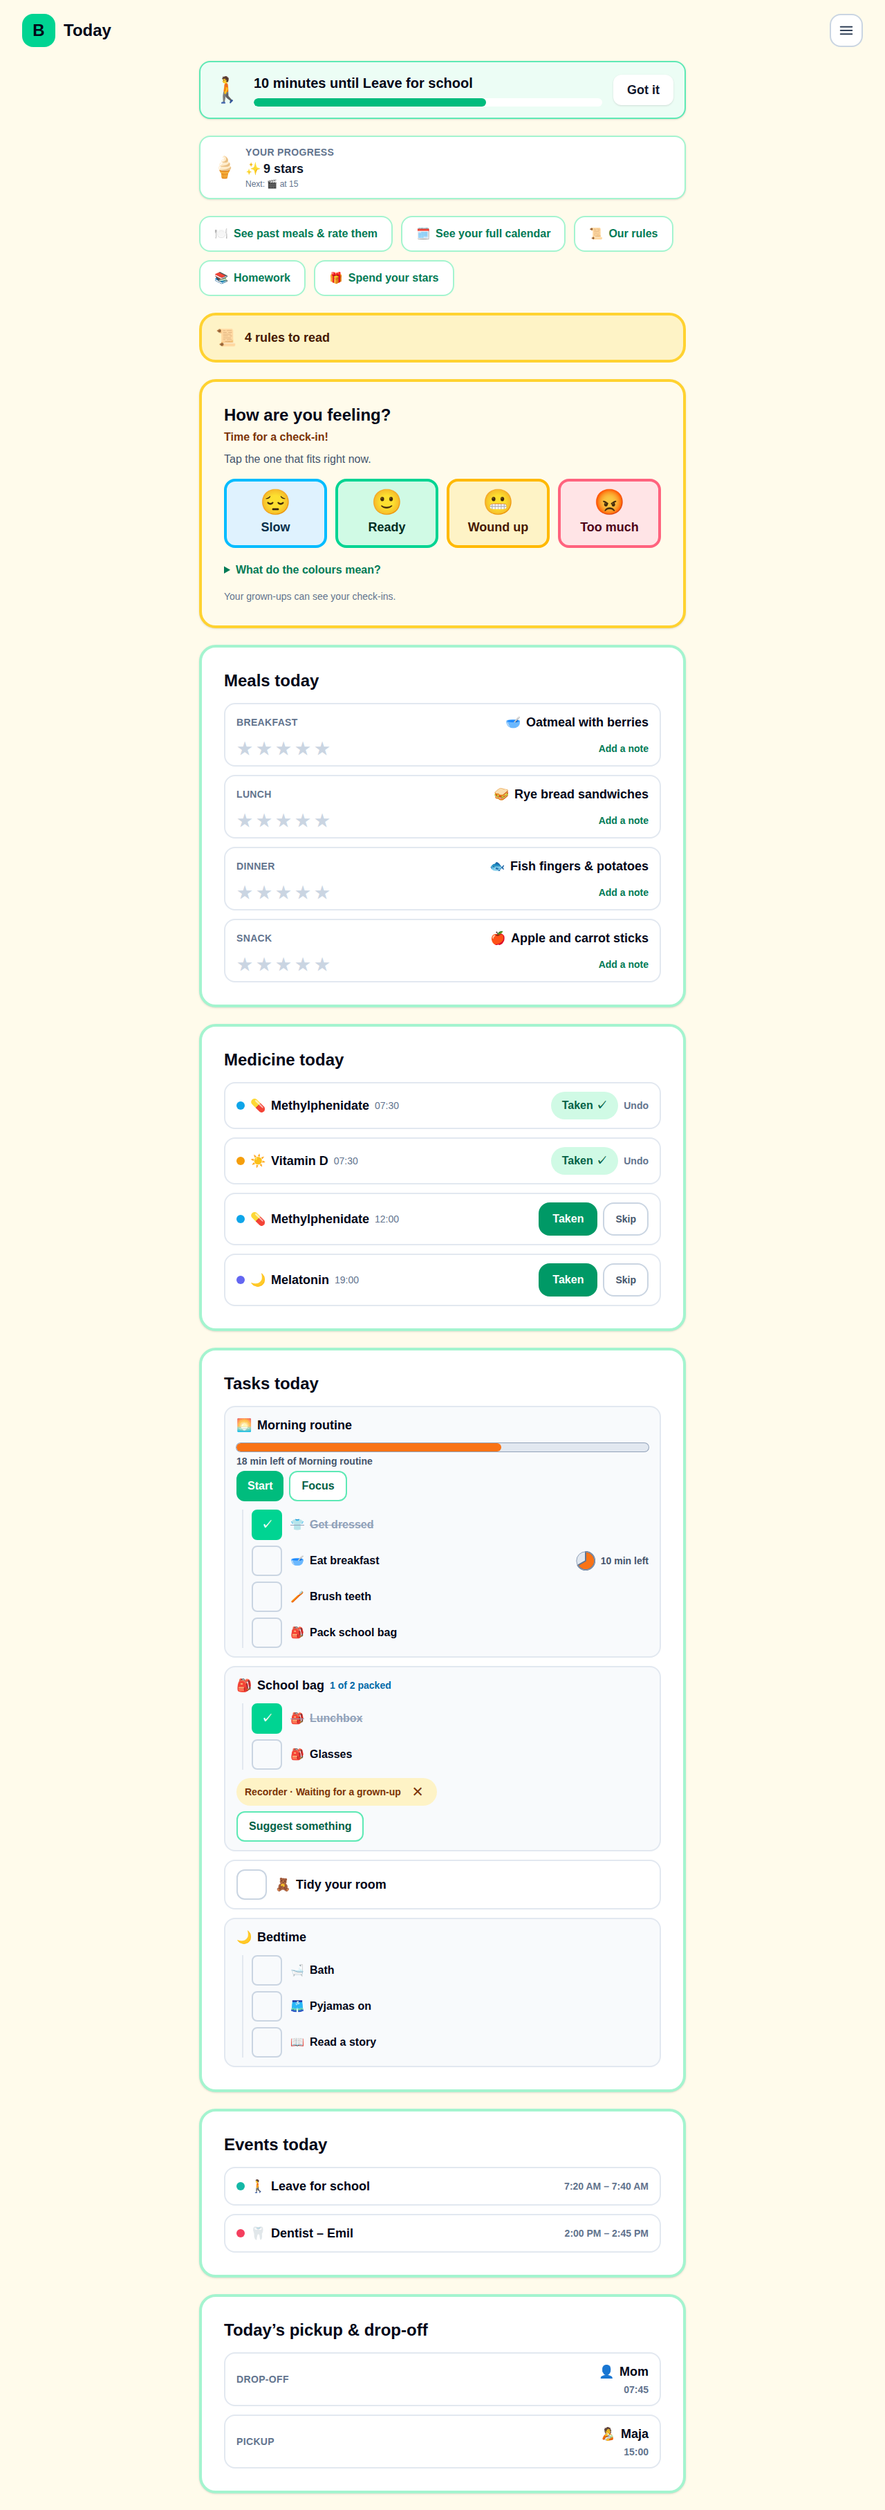
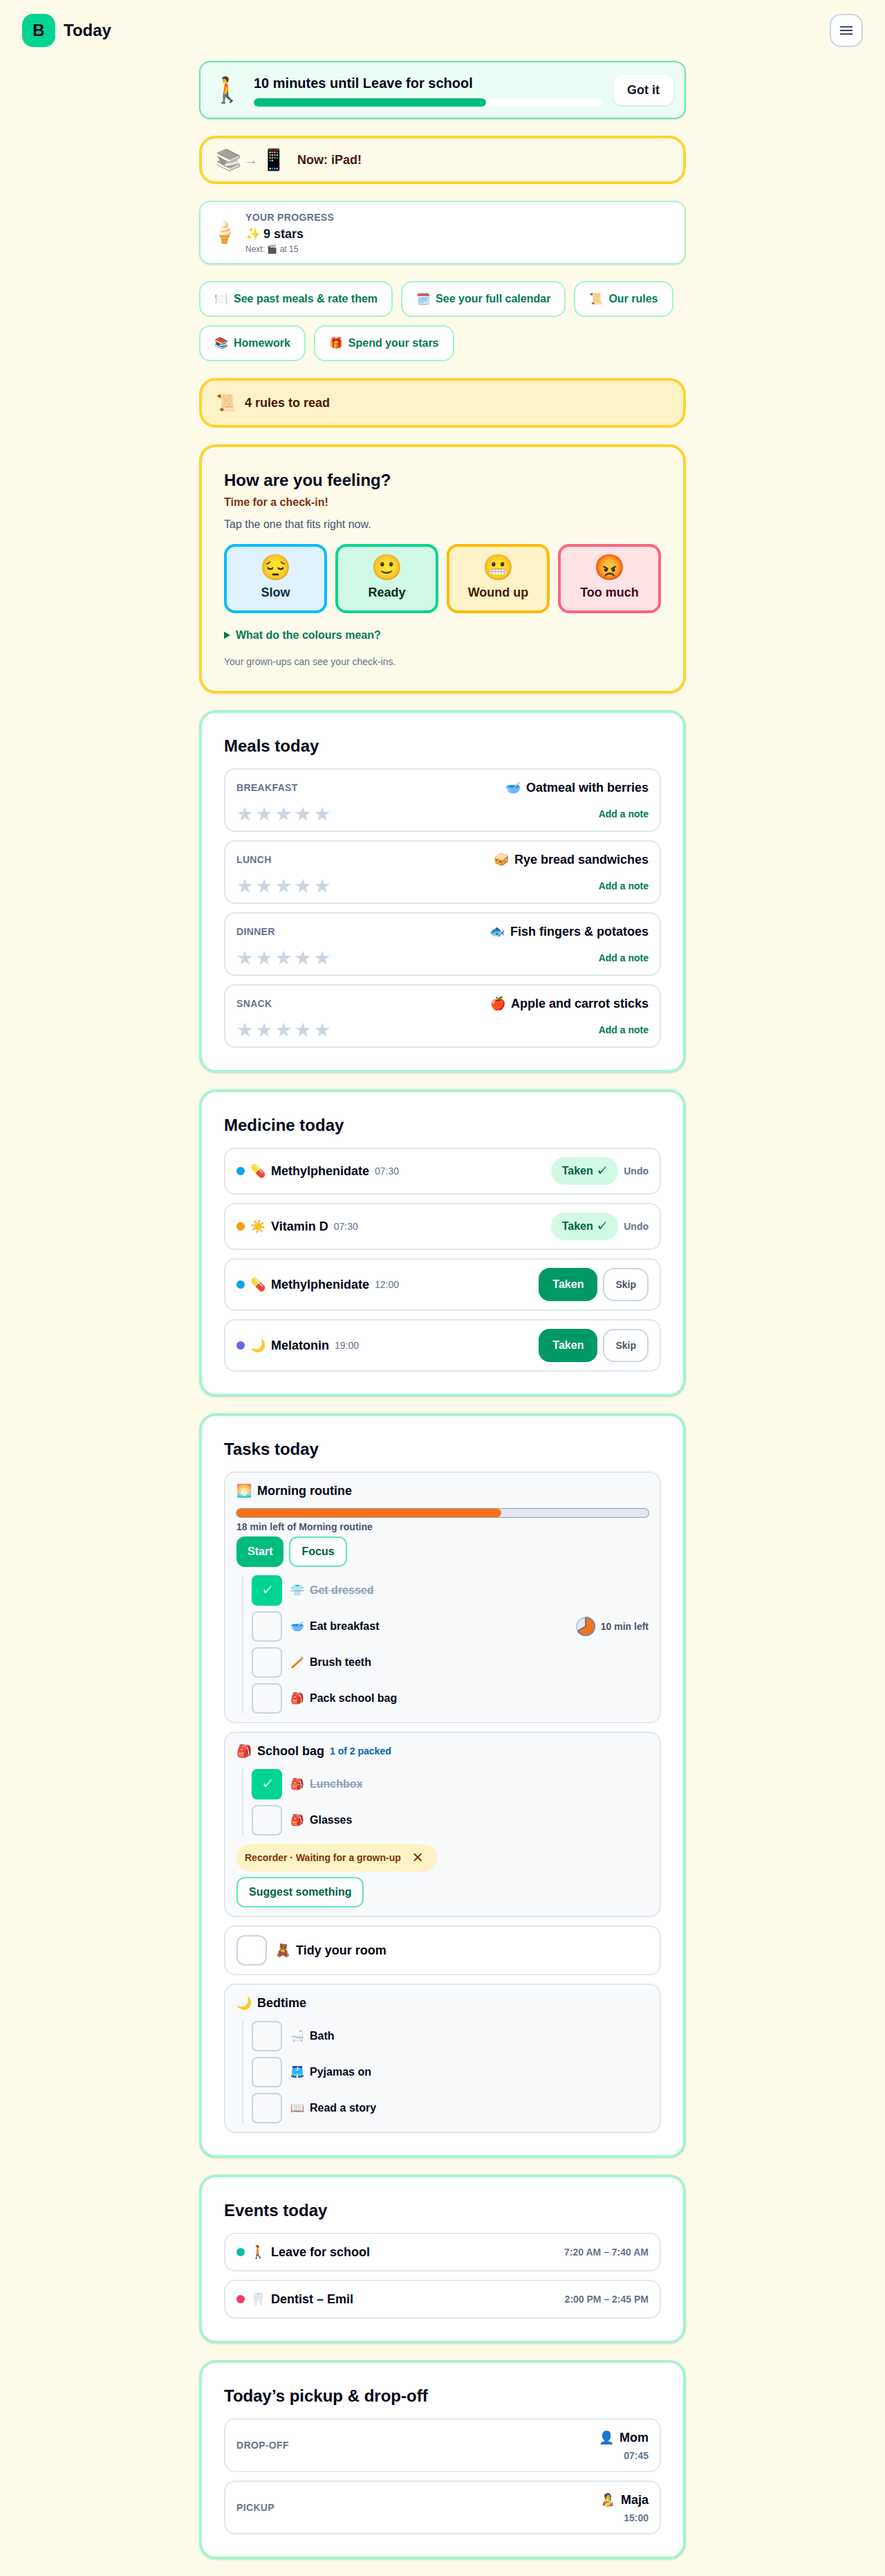
docs(screenshots): add the First–Then pages and refresh the demo captures

Changed region(s): [[0.2188, 0.0311, 0.7812, 0.9967], [0.6562, 0.6229, 0.6875, 0.6541]]

diff --git a/docs/screenshots/README.md b/docs/screenshots/README.md
@@ -158,6 +158,16 @@ Per child, a countdown on the child’s screen before events, tasks, routines, p
 
 <img src="mobile/guardian-transition-warnings.png" alt="Heads-up before changes on a phone" width="320">
 
+## First – Then
+
+A two-card board for one child: first the task, then what comes after. The current board as the child sees it, with Mark done, Undo and End, and a form for a new board from cards used before, today’s tasks or suggestions, with an optional time limit for the Then.
+
+![First – Then](guardian-first-then.png)
+
+<img src="tablet/guardian-first-then.png" alt="First – Then on a tablet" width="384">
+
+<img src="mobile/guardian-first-then.png" alt="First – Then on a phone" width="320">
+
 ## House rules
 
 The household’s rules in markdown, with who has read each one. A rule can be added, edited (a small fix keeps the children’s ticks), moved, removed, read together with a child, and printed.
@@ -327,6 +337,16 @@ The child’s own rules and each household’s, with “New” and “Changed”
 <img src="tablet/child-rules.png" alt="Child: our rules on a tablet" width="384">
 
 <img src="mobile/child-rules.png" alt="Child: our rules on a phone" width="320">
+
+## Child: First – Then
+
+The child’s First – Then board: Homework is done, so the iPad card is open with a disc counting down its 20 minutes, Not done yet for a mis-tap and All done to end the board.
+
+![Child: First – Then](child-first-then.png)
+
+<img src="tablet/child-first-then.png" alt="Child: First – Then on a tablet" width="384">
+
+<img src="mobile/child-first-then.png" alt="Child: First – Then on a phone" width="320">
 
 ## Child: rewards
 
